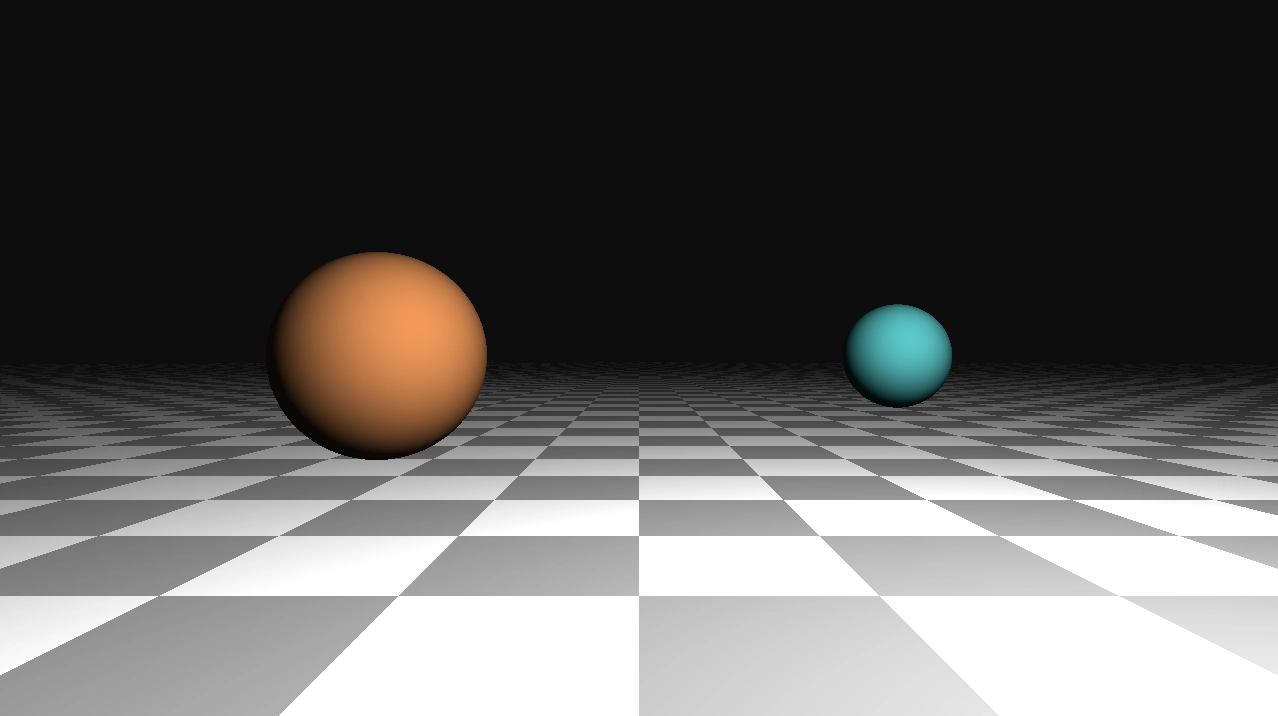
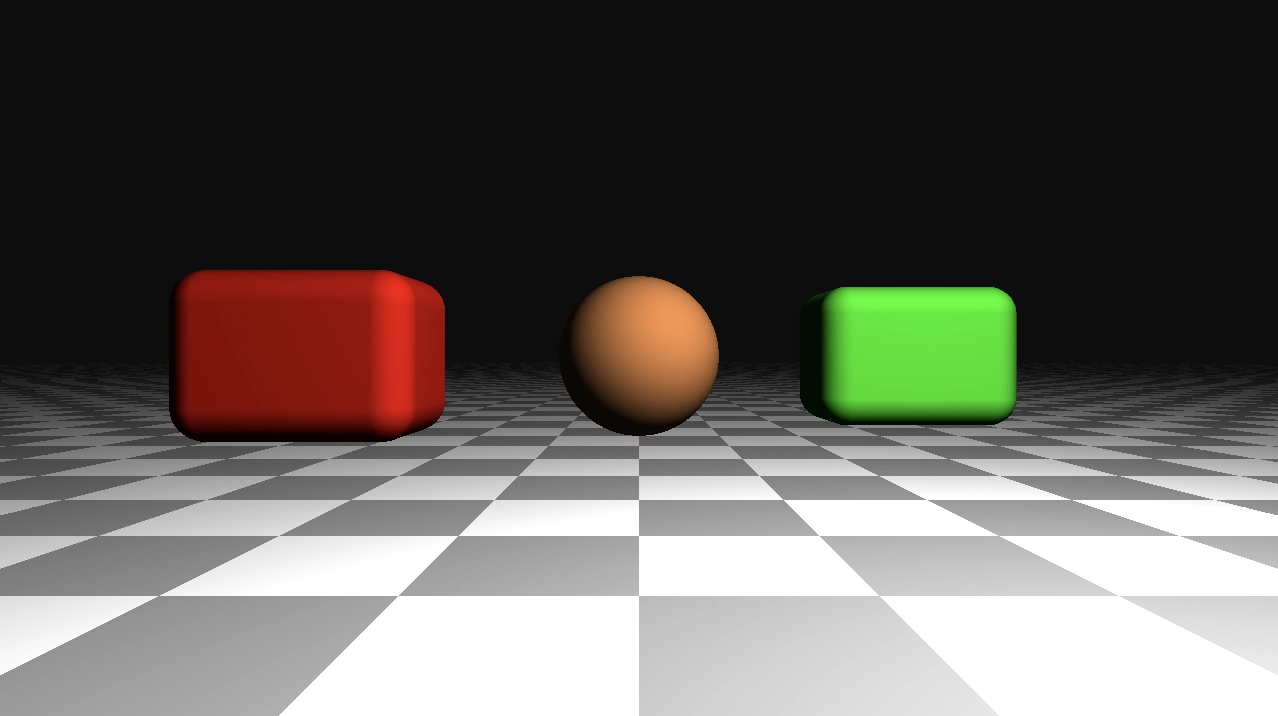
add 2 ammo box with rounded box.

Changed region(s): [[0.1221, 0.338, 0.3967, 0.6453], [0.6103, 0.3994, 0.7934, 0.6145], [0.4272, 0.3687, 0.5798, 0.6145]]

diff --git a/shaderProg.c b/shaderProg.c
@@ -36,13 +36,27 @@ float sdSphere(vec3 p, const Sphere sphere) {
     return length(p - sphere.center) - sphere.radius;
 }
 
+struct RoundBox {
+    vec3 center;
+    vec3 size;
+    float radius;
+    vec3 col;
+};
+
+float sdRoundBox(vec3 p, const RoundBox round)
+{
+    vec3 q = abs(p - round.center) - round.size;
+    return length(max(q,0.0)) + min(max(q.x,max(q.y,q.z)),0.0) - round.radius;
+}
+
 float sdFloor(vec3 p) {
     return p.y + 1.; // y = -1
 }
 
 // build the scene
-Sphere sphere1 = Sphere(vec3(-2.5, 0, -2), 1.0, vec3(1, 0.58, 0.29));
-Sphere sphere2 = Sphere(vec3(2.5, 0, -2), 0.5, vec3(0, 0.8, 0.8));
+RoundBox round1 = RoundBox(vec3(-2., 0., 0.5), vec3(0.5, 0.3, 0.3), 0.2, vec3(1., 0., 0.));
+RoundBox round2 = RoundBox(vec3(2., 0., -0.5), vec3(0.5, 0.3, 0.3), 0.2, vec3(0., 1., 0.));
+Sphere sphere1 = Sphere(vec3(0, 0, 0), 0.55, vec3(1, 0.58, 0.29));
 
 vec2 opU(vec2 d1, vec2 d2) {
     return (d1.x < d2.x) ? d1 : d2;
@@ -50,9 +64,10 @@ vec2 opU(vec2 d1, vec2 d2) {
 
 vec2 map(vec3 p) {
     vec2 res = vec2(MAX_DIST, 0);
-    res = opU(res, vec2(sdSphere(p, sphere1), 1));
-    res = opU(res, vec2(sdSphere(p, sphere2), 2));
-    res = opU(res, vec2(sdFloor(p), 3));
+    res = opU(res, vec2(sdRoundBox(p, round1), 1));
+    res = opU(res, vec2(sdRoundBox(p, round2), 2));
+    res = opU(res, vec2(sdSphere(p, sphere1), 3));
+    res = opU(res, vec2(sdFloor(p), 4));
     return res;
 }
 
@@ -107,10 +122,12 @@ void mainImage(out vec4 fragColor, in vec2 fragCoord) {
 
         int id = int(res.y);
         if (id == 1) {
-            col = dif * sphere1.col;
+            col = dif * round1.col;
         } else if (id == 2) {
-            col = dif * sphere2.col;
+            col = dif * round2.col;
         } else if (id == 3) {
+            col = dif * sphere1.col;
+        } else if (id == 4) {
             col = dif * vec3(1. + 0.7 * mod(floor(p.x) + floor(p.z), 2.0));
         } else {
             col = vec3(dif);
